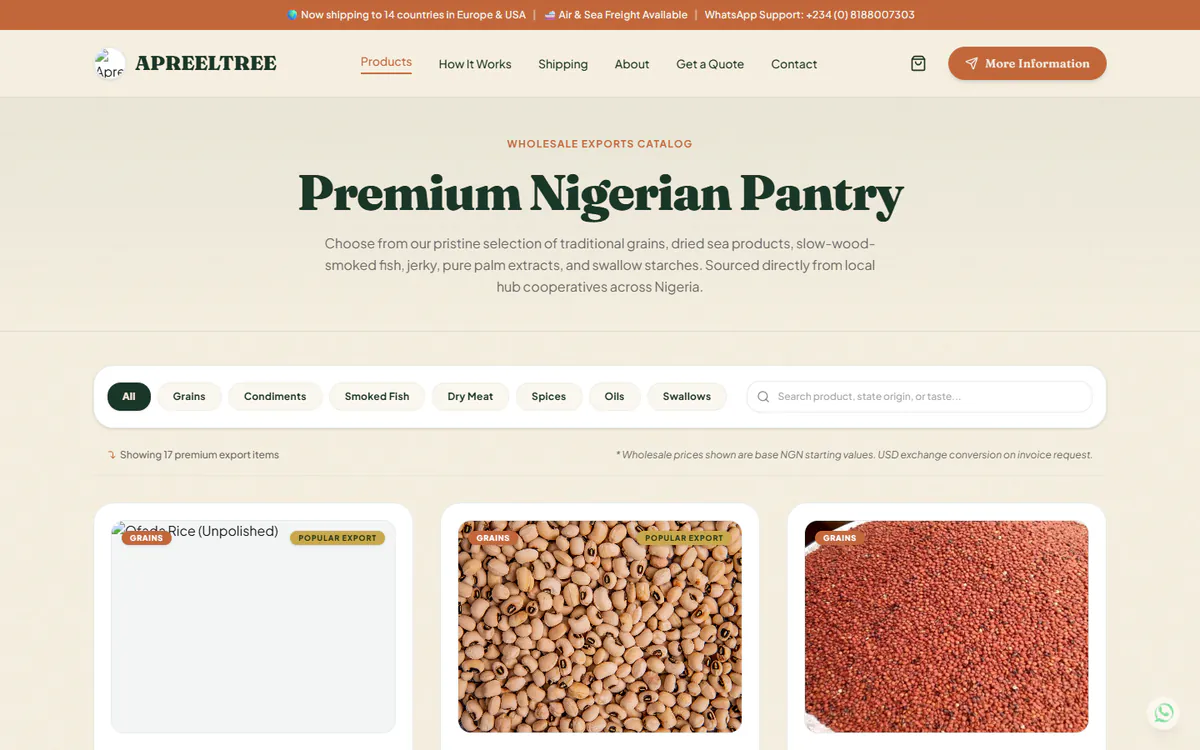
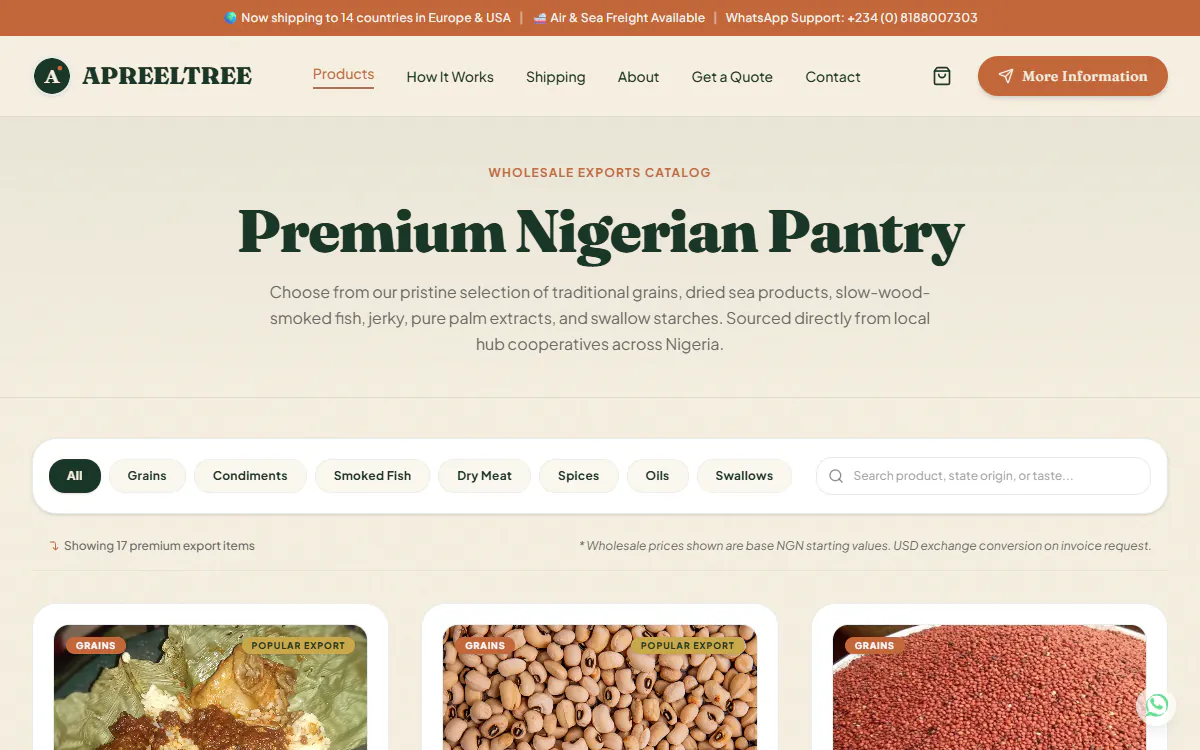
Add the inDrive Open API case study and refresh Apreeltree
- New case study 06: inDrive Open API Nigeria, a self-initiated API
  concept, with screenshots captured from the live sandbox.
- Recapture the Apreeltree screenshots now that its logo and product
  images are self-hosted, and correct the catalogue to 17 products.
- Update the Kingdom Comms summary.

diff --git a/src/data/projects.ts b/src/data/projects.ts
@@ -1,5 +1,5 @@
 /**
- * Case-study content for the five live projects.
+ * Case-study content for the six live projects.
  *
  * Facts below were observed directly from the live sites during recon
  * (screenshots in `public/projects/<slug>/`, notes in `docs/old-site-analysis.md`
@@ -27,7 +27,7 @@ export interface Project {
   name: string;
   shortName: string;
   category: string;
-  /** Year the build went live. All five were live and advertising 2026 at recon time. */
+  /** Year the build went live. All six were live and advertising 2026 at recon time. */
   year: string;
   client: string;
   role: string[];
@@ -91,7 +91,7 @@ export const projects: Project[] = [
     ],
     liveUrl: 'https://gic-admin-static.onrender.com/',
     summary:
-      'A church messaging app for sharing updates with the right members, without the cost of SMS.',
+      'A church management platform for sharing information with members without SMS costs, planning events and managing church population.',
     note: 'Church updates, sent straight to members’ phones.',
     stamp: 'In production',
     standfirst:
@@ -313,7 +313,7 @@ export const projects: Project[] = [
       full: {
         src: '/projects/apreeltree/full.webp',
         width: 1200,
-        height: 3736,
+        height: 4571,
         alt: 'Full-page view of the Apreeltree export site',
       },
       mobile: {
@@ -329,7 +329,7 @@ export const projects: Project[] = [
         width: 1200,
         height: 750,
         alt: 'Apreeltree catalogue: “Premium Nigerian Pantry” with grades and starting prices for each product',
-        caption: 'The catalogue — 23 products, graded and priced',
+        caption: 'The catalogue — 17 products, graded and priced',
       },
       {
         src: '/projects/apreeltree/product.webp',
@@ -355,7 +355,7 @@ export const projects: Project[] = [
     ],
     deliverables: [
       'Trust-first storefront with the proof placed directly under the headline',
-      'A 23-product catalogue grouped by category, with grades and starting prices',
+      'A 17-product catalogue grouped by category, with grades and starting prices',
       'Product detail pages with the product story and related shipments',
       'A four-step export logistics explainer covering freight, customs and packaging',
       'A WhatsApp-first quote path that persists the enquiry',
@@ -363,25 +363,25 @@ export const projects: Project[] = [
     tech: [
       { label: 'Stack', value: 'React · TypeScript · Tailwind CSS · Vite' },
       { label: 'Type', value: 'Fraunces · Plus Jakarta Sans' },
-      { label: 'Catalogue', value: '23 SKUs · grade and starting price each' },
+      { label: 'Catalogue', value: '17 SKUs · grade and starting price each' },
       { label: 'Quote flow', value: 'Enquiry saved client-side, then handed to WhatsApp' },
       { label: 'Imagery', value: '8 images, 6 lazy-loaded' },
       { label: 'Hosting', value: 'Render static site' },
     ],
     overview:
-      'A B2B export storefront for Nigerian staples — ofada rice, honey beans, egusi, ogbono, crayfish and smoked catfish — sold in bulk to buyers in Europe and the USA. The site carries a 23-product catalogue with grades and starting prices, an export logistics explainer, trust marks, and a WhatsApp-first quote path.',
+      'A B2B export storefront for Nigerian staples — ofada rice, honey beans, egusi, ogbono, crayfish and smoked catfish — sold in bulk to buyers in Europe and the USA. The site carries a 17-product catalogue with grades and starting prices, an export logistics explainer, trust marks, and a WhatsApp-first quote path.',
     challenge:
       'An export buyer needs to believe the seller before price is even worth discussing: who farms it, how it is cleaned, which certifications exist, how it ships, and what happens if customs asks questions. Most small-export sites bury all of that. The job was to surface the proof directly under the headline, then make a quote request take one tap.',
     built: [
       'A trust bar above the fold: shipping notice, air and sea freight availability, WhatsApp support line.',
       'Hero pairing a serif/italic display lockup with a rotated product card and a NAFDAC-certified seal.',
-      'A 23-product catalogue grouped by category (grains, condiments, smoked fish), each with origin, grade description and a starting price.',
+      'A 17-product catalogue grouped by category (grains, condiments, smoked fish), each with origin, grade description and a starting price.',
       'A four-step export logistics explainer: enquiry, sourcing and processing, documented shipping, delivery.',
       'A quote flow built on WhatsApp, repeated as a dedicated terracotta band at the foot of the page.',
       'Palette and type drawn from the brand: cream #F5EFE0, forest #1A3728, terracotta #C2673A, Fraunces display.',
     ],
     facts: [
-      { label: 'Catalogue', value: '23 products' },
+      { label: 'Catalogue', value: '17 products' },
       { label: 'Markets named', value: 'Europe & USA' },
       { label: 'Site claims', value: '14 countries · 500+ bulk orders' },
       { label: 'Certification shown', value: 'NAFDAC' },
@@ -588,6 +588,115 @@ export const projects: Project[] = [
       { label: 'Artist base', value: 'Boston, MA' },
     ],
     resultsNote: 'Streaming numbers and sales were out of scope at recon time — nothing is claimed here.',
+  },
+  {
+    slug: 'indrive',
+    index: '06',
+    name: 'inDrive Open API Nigeria',
+    shortName: 'inDrive API',
+    category: 'Developer API concept',
+    year: '2026',
+    client: 'Self-initiated concept — not an inDrive product, not affiliated with inDrive',
+    role: ['API design', 'Backend build', 'Developer portal', 'Product design'],
+    stack: ['Python', 'Flask', 'PostgreSQL', 'SQLAlchemy', 'Alembic', 'Redis', 'OpenAPI 3.1', 'Motion'],
+    liveUrl: 'https://indrive-open-api-nigeria.onrender.com/',
+    summary:
+      'A concept public API that lets Nigerian businesses build inDrive-style negotiated rides and parcel deliveries into their own apps.',
+    note: 'What an inDrive API for Nigerian developers could look like.',
+    stamp: 'Concept',
+    standfirst:
+      'Every ride API quotes a price. inDrive’s whole idea is that the price is negotiated — so the API had to carry the negotiation, not flatten it.',
+    theme: { bg: '#FFFEF4', fg: '#2F3C45', accent: '#56BC37' },
+    images: {
+      hero: {
+        src: '/projects/indrive/hero.webp',
+        width: 1440,
+        height: 900,
+        alt: 'inDrive Open API Nigeria homepage: “Fair rides, built into your app.” beside a phone where a hotel’s guest-transport screen shows three drivers responding to a ₦14,000 offer, with the API call behind the step',
+      },
+      full: {
+        src: '/projects/indrive/full.webp',
+        width: 1200,
+        height: 8319,
+        alt: 'Full-page view of the inDrive Open API Nigeria developer portal',
+      },
+      mobile: {
+        src: '/projects/indrive/mobile.webp',
+        width: 780,
+        height: 1688,
+        alt: 'The inDrive Open API Nigeria portal on a phone, under the concept-project banner',
+      },
+    },
+    gallery: [
+      {
+        src: '/projects/indrive/quickstart.webp',
+        width: 1200,
+        height: 750,
+        alt: 'Quickstart page: “A first ride in five calls”, with curl, JavaScript and Python tabs pointed at the live deployment',
+        caption: 'Quickstart — a first ride in five calls, in three languages',
+      },
+      {
+        src: '/projects/indrive/reference.webp',
+        width: 1200,
+        height: 750,
+        alt: 'API reference, Rides section: ten operations from ride estimates to lifecycle status, rendered from the OpenAPI document',
+        caption: 'API reference — drawn by the product from its own OpenAPI document',
+      },
+      {
+        src: '/projects/indrive/webhooks.webp',
+        width: 1200,
+        height: 750,
+        alt: 'Webhooks page: “Hear about a ride as it happens”, explaining signed, ordered, retried event delivery',
+        caption: 'Webhooks — signed, ordered per ride, retried until accepted',
+      },
+      {
+        src: '/projects/indrive/keys.webp',
+        width: 1200,
+        height: 750,
+        alt: 'Sandbox key page: a self-serve form that issues a 30-day key once the developer confirms it is a concept',
+        caption: 'Sandbox keys — no account, issued in one step',
+      },
+    ],
+    deliverables: [
+      'A REST API under /api/ride-ops/v1 — 31 operations for rides, deliveries, guests, events, webhooks and the simulation',
+      'A developer portal with a quickstart, self-serve sandbox keys, a webhooks guide and an API reference',
+      'An operations console over the same public API, plus a browser-based driver location tool',
+      'Signed webhooks with 40 event types, per-ride ordering and exponential-backoff retries',
+      'A deterministic dispatch simulation whose pace can be changed at runtime',
+      'A one-service Render deployment on free Neon Postgres and Upstash Redis',
+    ],
+    tech: [
+      { label: 'Backend', value: 'Python · Flask · SQLAlchemy · gunicorn' },
+      { label: 'Data', value: 'PostgreSQL · 13 Alembic migrations · Redis' },
+      { label: 'Contract', value: 'OpenAPI 3.1, checked against the app by the test suite' },
+      { label: 'Webhooks', value: 'HMAC-SHA256 signatures · backoff with jitter' },
+      { label: 'Deploy', value: 'Render web service · Neon · Upstash' },
+      { label: 'Tests', value: '185, in pytest' },
+    ],
+    overview:
+      'A self-initiated concept: what would a public inDrive API for Nigerian developers look like? This is a working answer — a developer portal, a REST API, signed webhooks and an operations console, so a hotel, an online store or a logistics startup could build inDrive rides and parcel deliveries into its own product. It is not an inDrive product and nothing in it talks to inDrive: every driver, courier and price comes from a local simulation, and the product says so on every page, in every HTTP response and in the API document itself.',
+    challenge:
+      'A fixed-price ride API is easy to imagine: quote, book, done. inDrive works differently — the platform publishes a recommended minimum, the requester offers a price, and drivers accept, counter or decline. Modelling that honestly means a counter-offer is its own priced record from a distinct driver, the refused prices stay auditable next to the agreed one, and the fare can only move while the offer is open. On top of that it had to feel like a real platform API — idempotency keys, ETags, cursor pagination, a consistent error envelope — and fit Nigeria: naira in kobo, Lagos time, local phone formats. And because it borrows inDrive’s visual language as the pitch, it had to be impossible to mistake for the real thing.',
+    built: [
+      'A negotiated fare model: one recommended minimum, an offer from the requester, and counter-offers stored as first-class ride_offers rows, so the requester always sees the alternatives.',
+      'A deterministic simulation that walks a ride from SEARCHING to COMPLETED — the same ride always produces the same responses, so scenarios and tests are reproducible — with timings an operator can slow down or speed up from the console.',
+      'Parcel deliveries in the same peer-to-peer shape: up to three addresses with one courier, chosen by the sender on price, rating and arrival time, and tracked through every handoff.',
+      'Platform conventions throughout: an idempotency key on every mutation, ETags with If-Match and 412 on a stale version, cursor pagination and a meta error envelope.',
+      'Signed webhooks over 40 event types — HMAC-SHA256 over the timestamp and raw body, delivered in order per ride, retried with exponential backoff and bounded jitter.',
+      'A checked-in OpenAPI 3.1 document that the test suite verifies against every route and every error code, and an API reference the product renders from it with no third-party renderer.',
+      'A developer portal in inDrive’s design language — a hero where a made-up hotel books an airport pickup step by step beside the API call behind each step — animated with Motion and fully readable without it.',
+      'Built for Nigeria: prices as integers in kobo, Africa/Lagos time, Nigerian numbers accepted in local or international form and normalised to +234.',
+    ],
+    facts: [
+      { label: 'Surfaces', value: 'Portal · API · Console · Driver tool' },
+      { label: 'API', value: '31 operations · OpenAPI 3.1' },
+      { label: 'Webhook events', value: '40' },
+      { label: 'Fare model', value: 'Offer, counter, choose' },
+      { label: 'Deliveries', value: 'Up to 3 stops, one courier' },
+      { label: 'Tests', value: '185' },
+    ],
+    resultsNote:
+      'This is a personal concept, not a shipped inDrive product, so there are no users, rides or revenue to report. The live deployment is a sandbox: anyone can issue a key and book a simulated ride, and every driver and price on it is generated by the simulation.',
   },
 ];
 

diff --git a/src/components/terminal/Terminal.tsx b/src/components/terminal/Terminal.tsx
@@ -21,8 +21,8 @@ const BANNER = [
 
 const HELP: Array<[string, string]> = [
   ['help', 'List commands'],
-  ['work', 'List the five live projects'],
-  ['open <slug>', 'Open a case study (gic, zanori, apreeltree, fitables, dudja)'],
+  ['work', 'List the live projects'],
+  ['open <slug>', 'Open a case study (gic, zanori, apreeltree, fitables, dudja, indrive)'],
   ['contact', 'Email, phone, WhatsApp'],
   ['socials', 'GitHub and the rest'],
   ['theme', 'Toggle light / dark'],

diff --git a/src/components/sections/Work.tsx b/src/components/sections/Work.tsx
@@ -195,7 +195,7 @@ function WorkStack() {
 /**
  * Selected work.
  *
- * The section pins at every screen size and five project panels travel
+ * The section pins at every screen size and the project panels travel
  * horizontally, scrubbed by vertical scroll position (GSAP + ScrollTrigger on
  * Lenis' ticker).
  *
